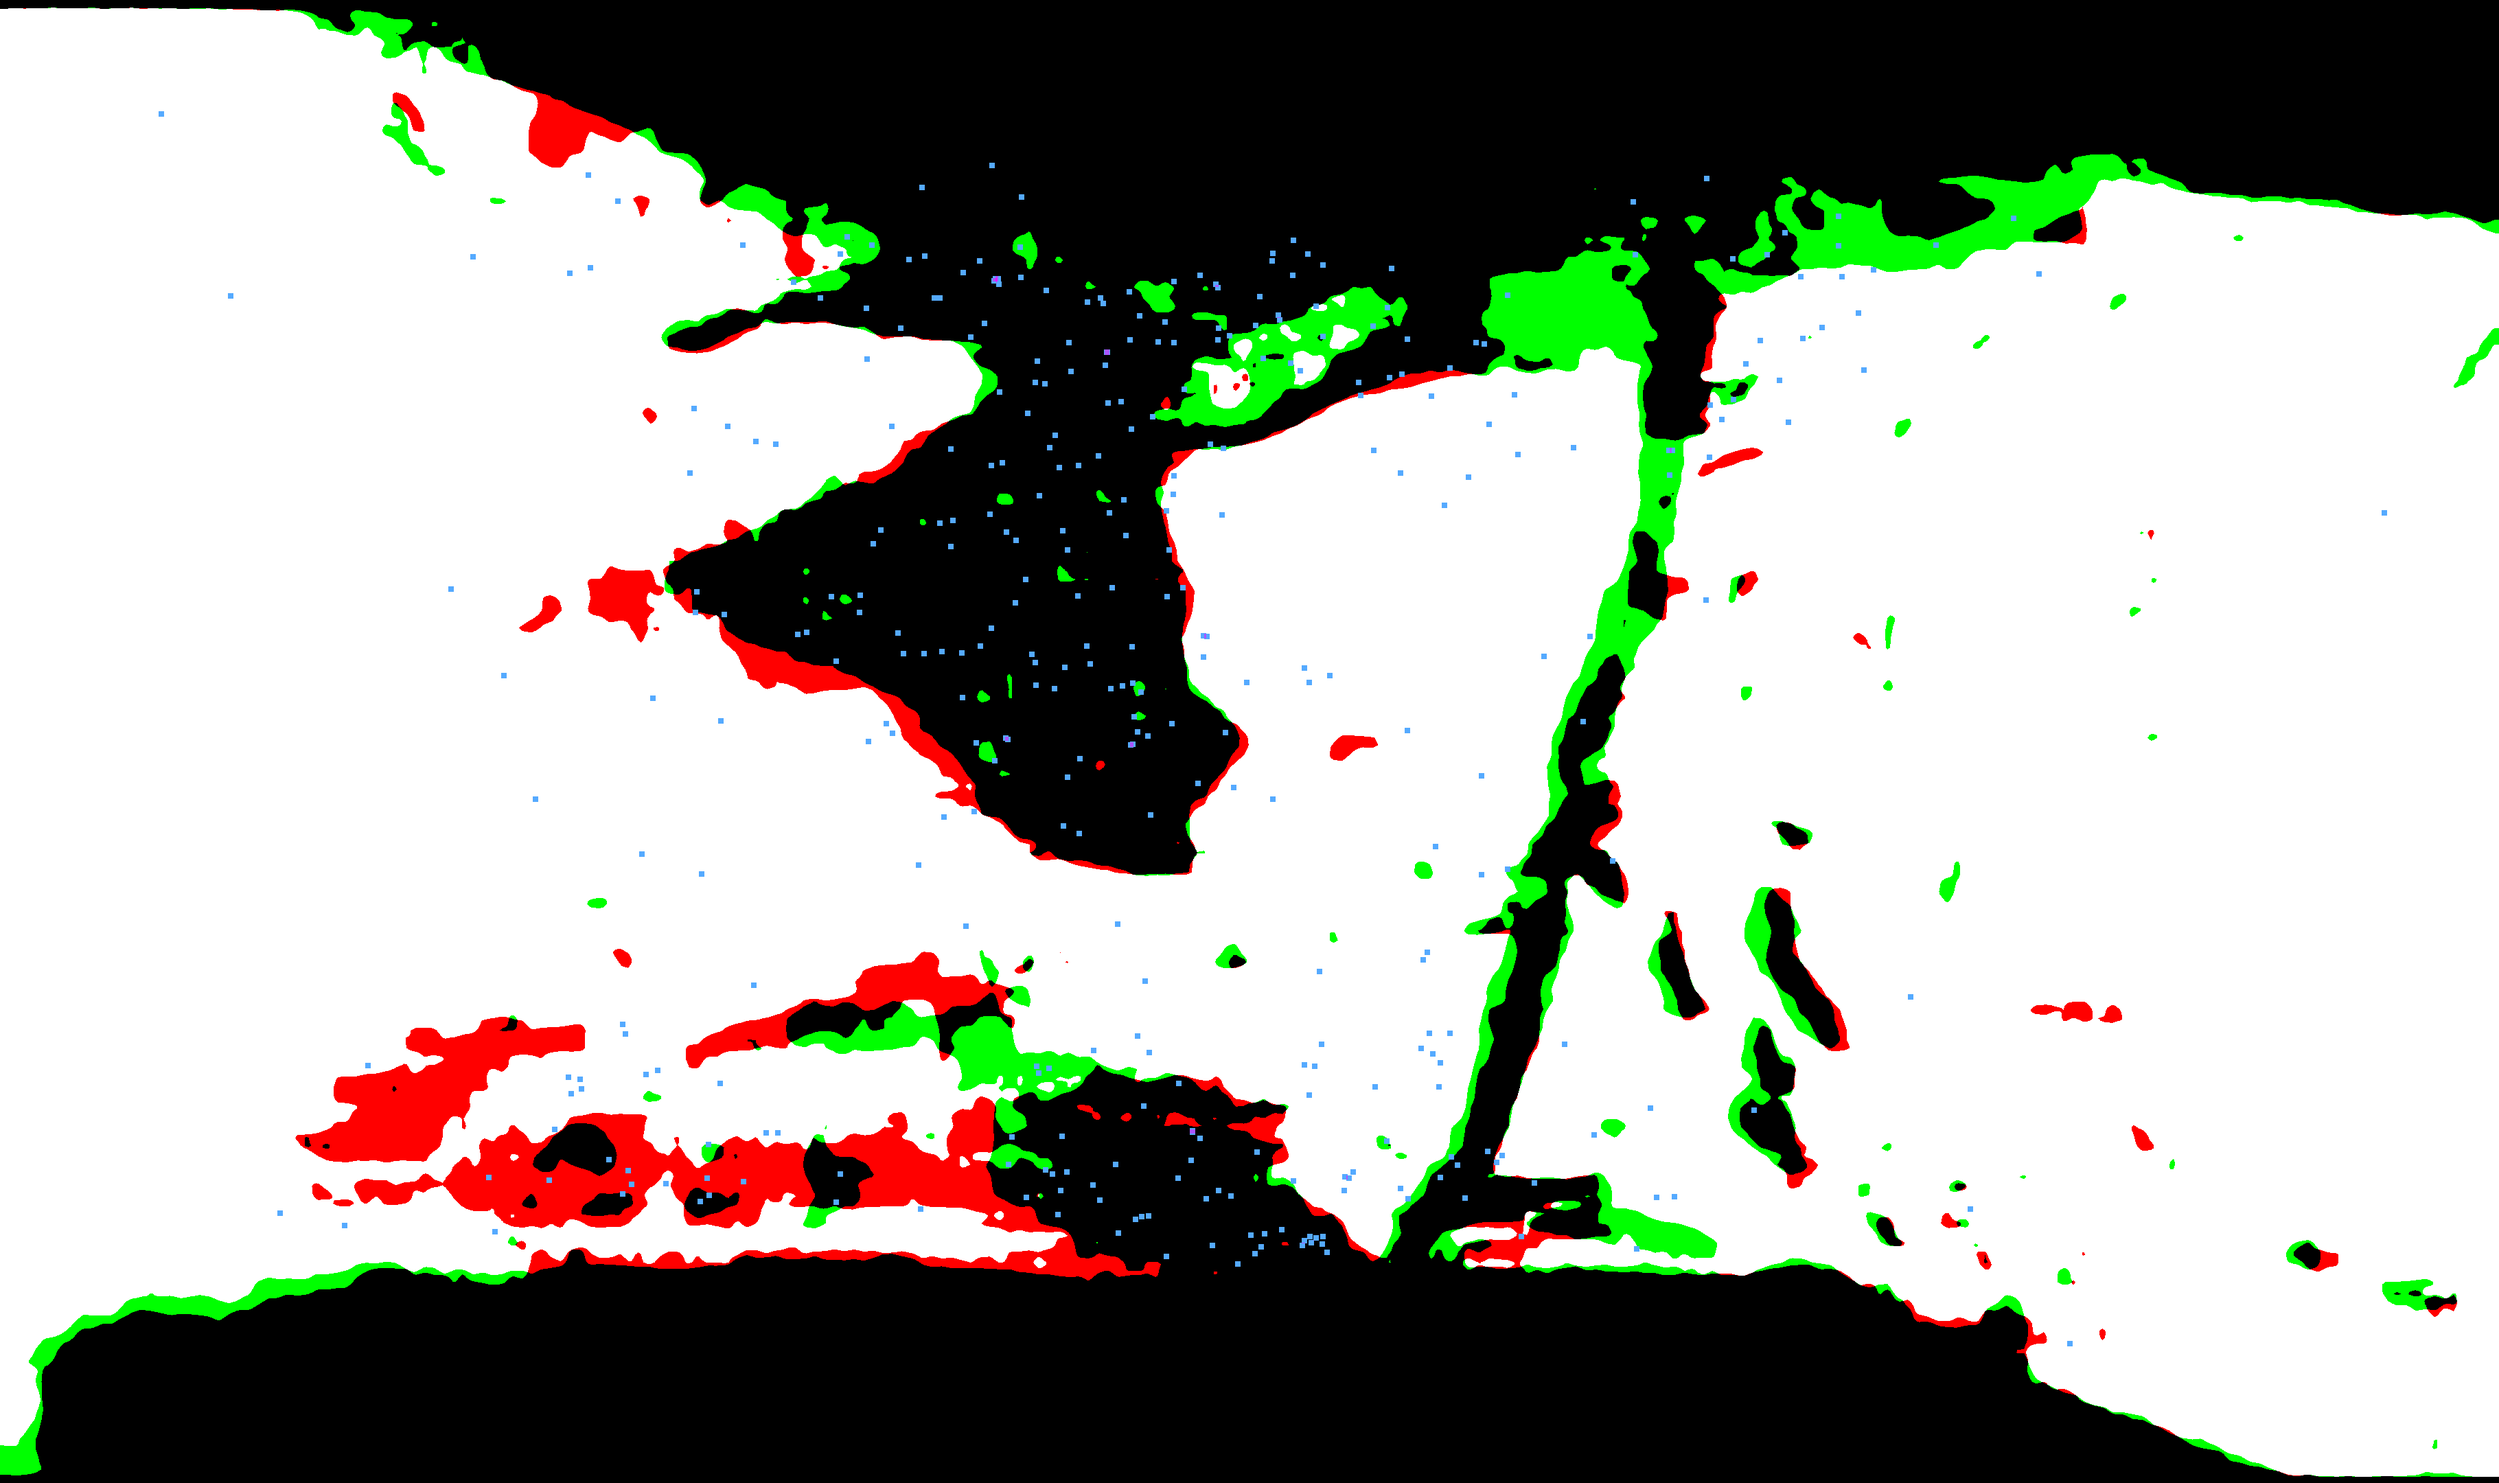
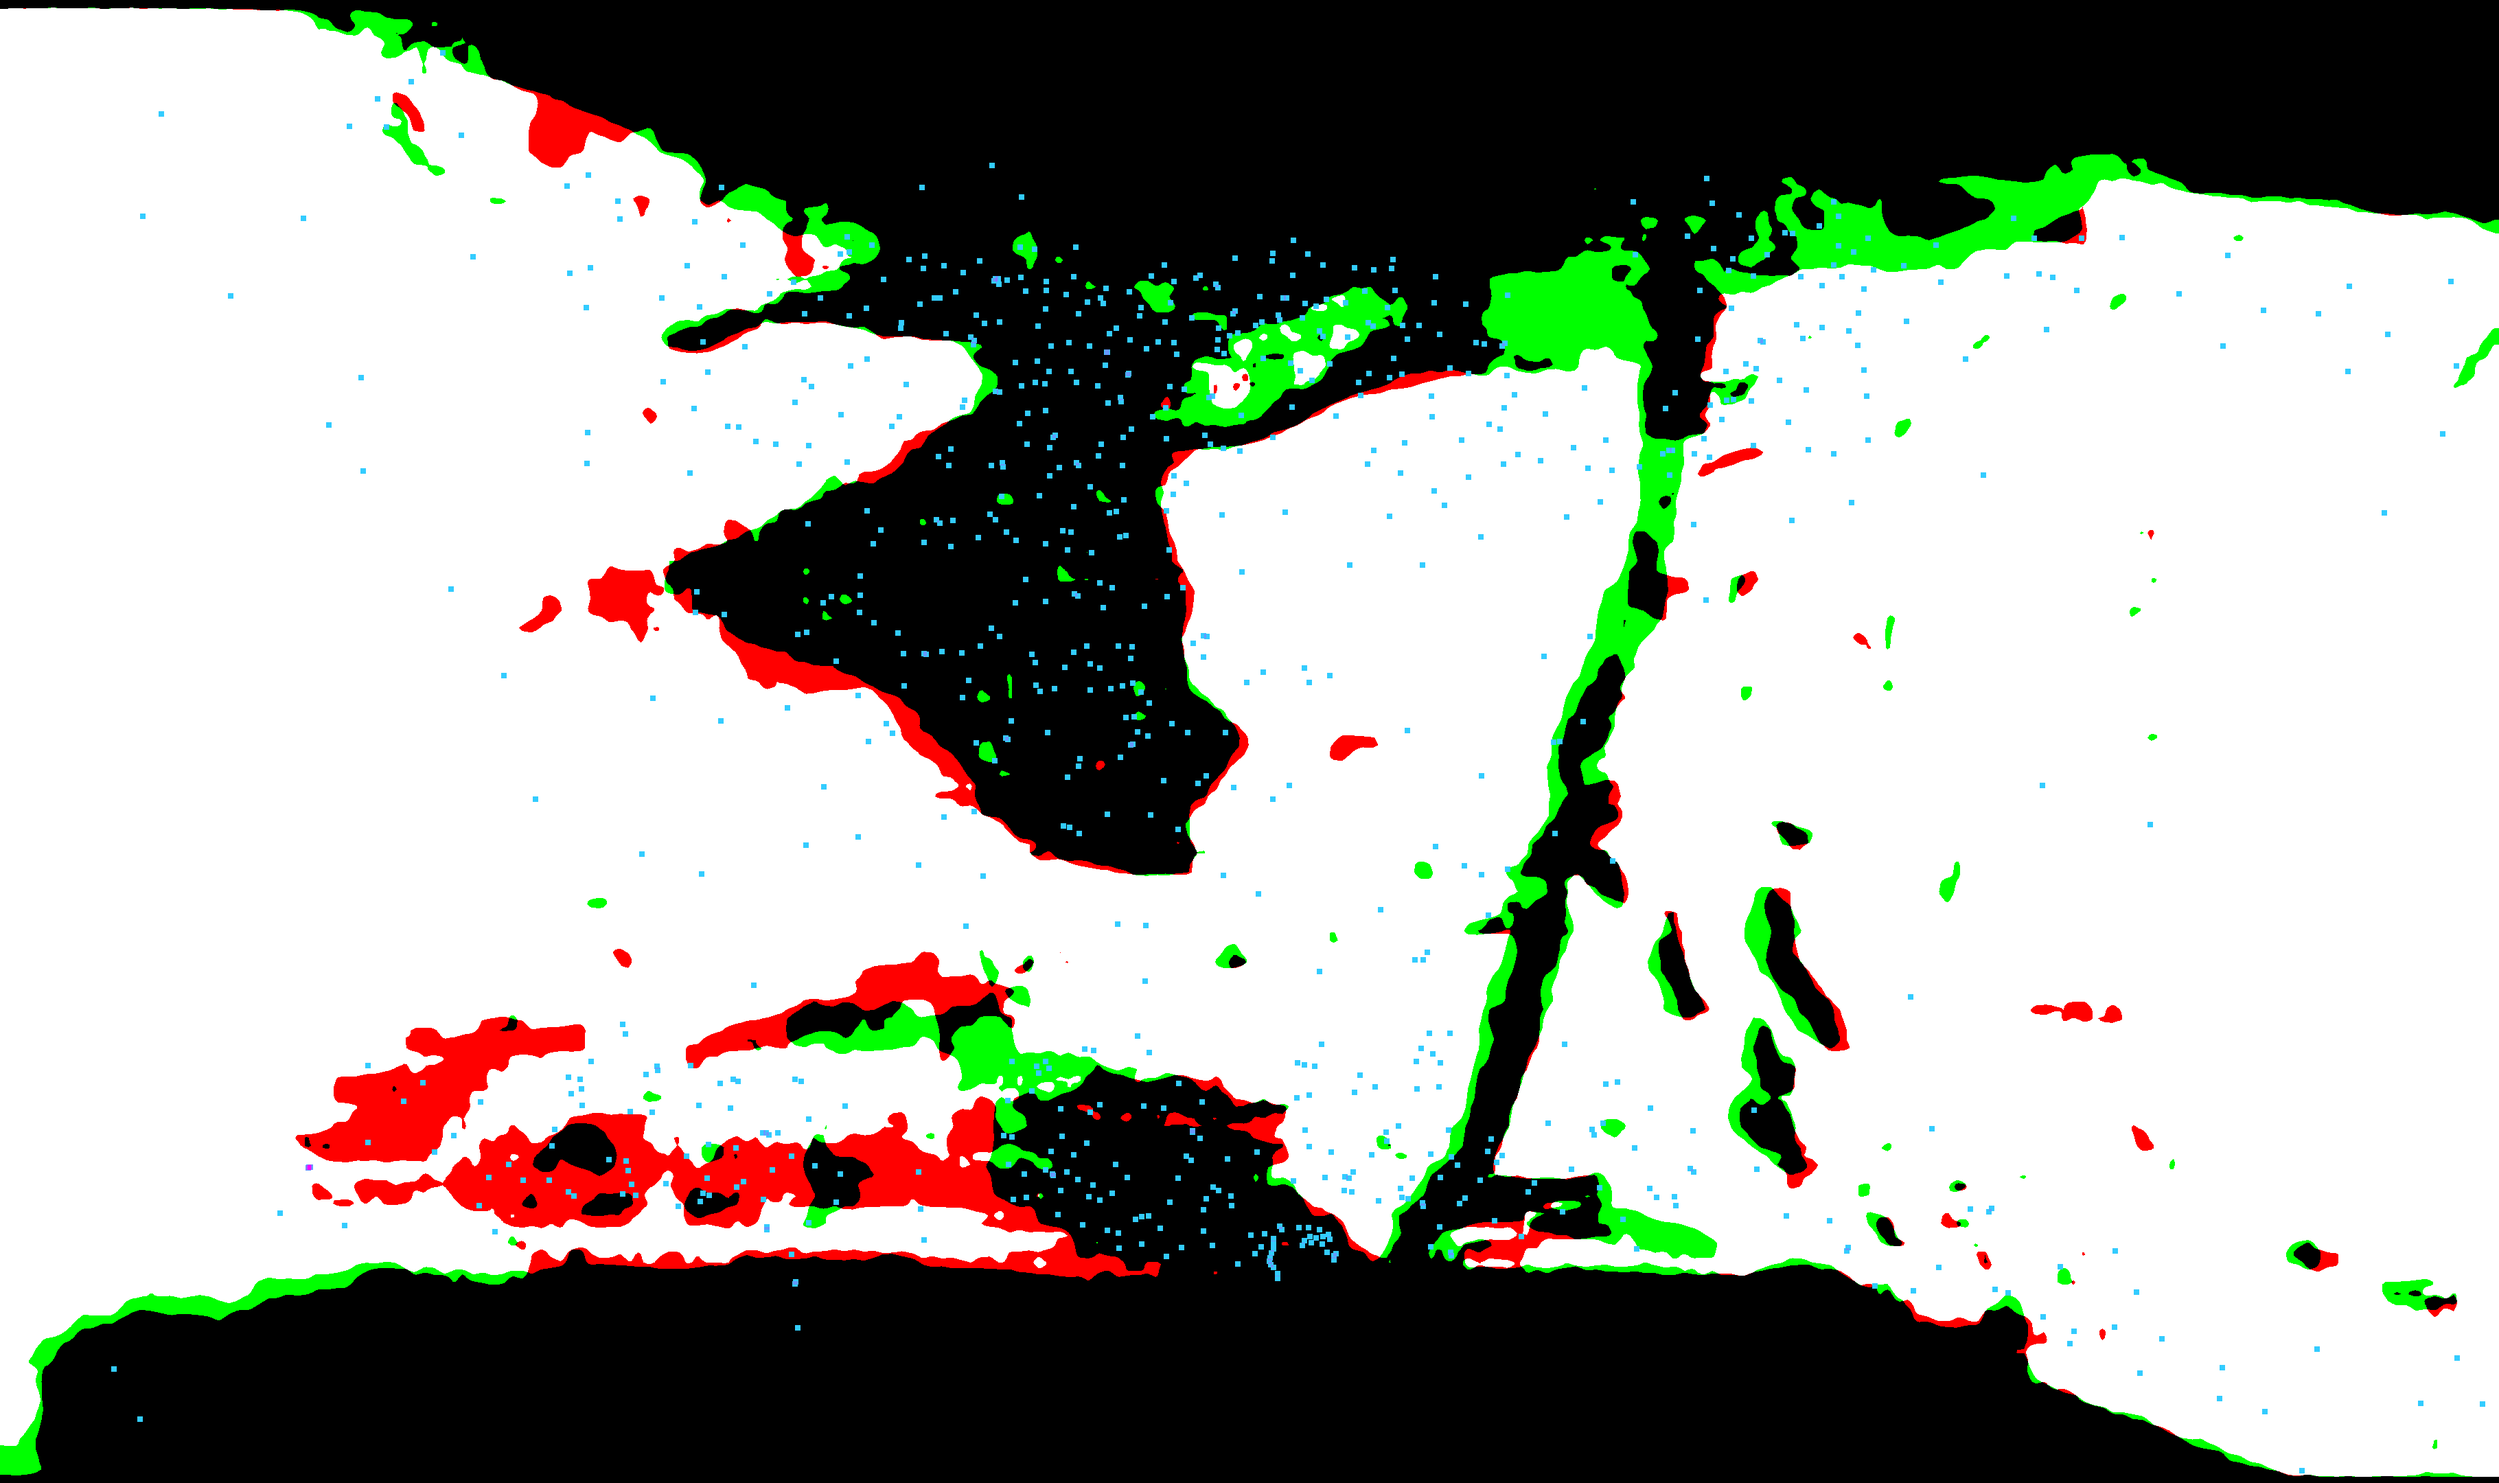
feat: generated the correlation with boats detection of 2021 and 2023

diff --git a/PosidoniaEvolution/posidonie_area.py b/PosidoniaEvolution/posidonie_area.py
@@ -111,17 +111,14 @@ def old_calculations():
     plot_bar_chart(areas_pixel)
     extrapolation(areas)
 
-if __name__ == "__main__":
-    superposed_image = cv2.imread(SUPERPOSED_CLEANED_IMG_PATH)
-    DRONE_ALTITUDE = 1600
-    DRONE_FOV = 58.5
-    IMG_WIDTH = superposed_image.shape[1]
+def calculate_area_in_square_meters(drone_altitude, drone_fov, superposed_image):
+    img_width = superposed_image.shape[1]  # Width of the image
     
     # Calculate the pixel size in meters
-    pixel_size = get_pixel_size(DRONE_ALTITUDE, DRONE_FOV, IMG_WIDTH)
+    pixel_size = get_pixel_size(drone_altitude, drone_fov, img_width)
     print("Pixel size in meters:", pixel_size)
     
-    pixels_colors_count = {}
+    pixels_colors_area = {}
     
     # Define the colors
     colors = {
@@ -136,9 +133,22 @@ if __name__ == "__main__":
 
     # Count the number of pixels for each color
     for color in colors:
-        # Count the number of pixels with the current color and multiply by the pixel size to get the area
-        pixels_colors_count[colors[color]] = np.sum(np.all(pixels == color, axis=1)) * pixel_size
-     
+        # Count the number of pixels with the current color
+        pixel_count = np.sum(np.all(pixels == color, axis=1))
+        # Calculate the area covered by the color (considering perspective distortion)
+        color_area = pixel_count * (pixel_size ** 2)
+        pixels_colors_area[colors[color]] = color_area
+        
+    return pixels_colors_area
+
+if __name__ == "__main__":
+    superposed_image = cv2.imread(SUPERPOSED_CLEANED_IMG_PATH)
+    DRONE_ALTITUDE = 1600
+    # DRONE_FOV = 58.5
+    DRONE_FOV = 70
+    
+    pixels_colors_count = calculate_area_in_square_meters(DRONE_ALTITUDE, DRONE_FOV, superposed_image)
+    
     # Print the number of pixels for each color
     for color, count in pixels_colors_count.items():
         # Print the real area of the color in hectares

diff --git a/MooredBoatsHeatmap/MooringDetection/predict.py b/MooredBoatsHeatmap/MooringDetection/predict.py
@@ -11,7 +11,9 @@ SCRIPT_PATH = os.path.dirname(os.path.abspath(__file__))
 MODEL = os.path.join(SCRIPT_PATH, "model", "best.pt")
 
 # IMAGES_DIR = os.path.join(SCRIPT_PATH, "data", "lerins", "2021 10 ZONE 2")
-IMAGES_DIR = os.path.join(SCRIPT_PATH, "data", "lerins", "2023 09 ZONE 2")
+# IMAGES_DIR = os.path.join(SCRIPT_PATH, "data", "lerins", "2023 09 ZONE 2")
+IMAGES_DIR = os.path.join(SCRIPT_PATH, "data", "lerins", "2021And2023_ZONE2")
+
 # IMAGES_DIR = os.path.join(SCRIPT_PATH, "data", "images", "validationBackground")
 
 # SOURCE = "data/lerins/2023 09 ZONE 2/Zone 2 2pm 1.JPG"
